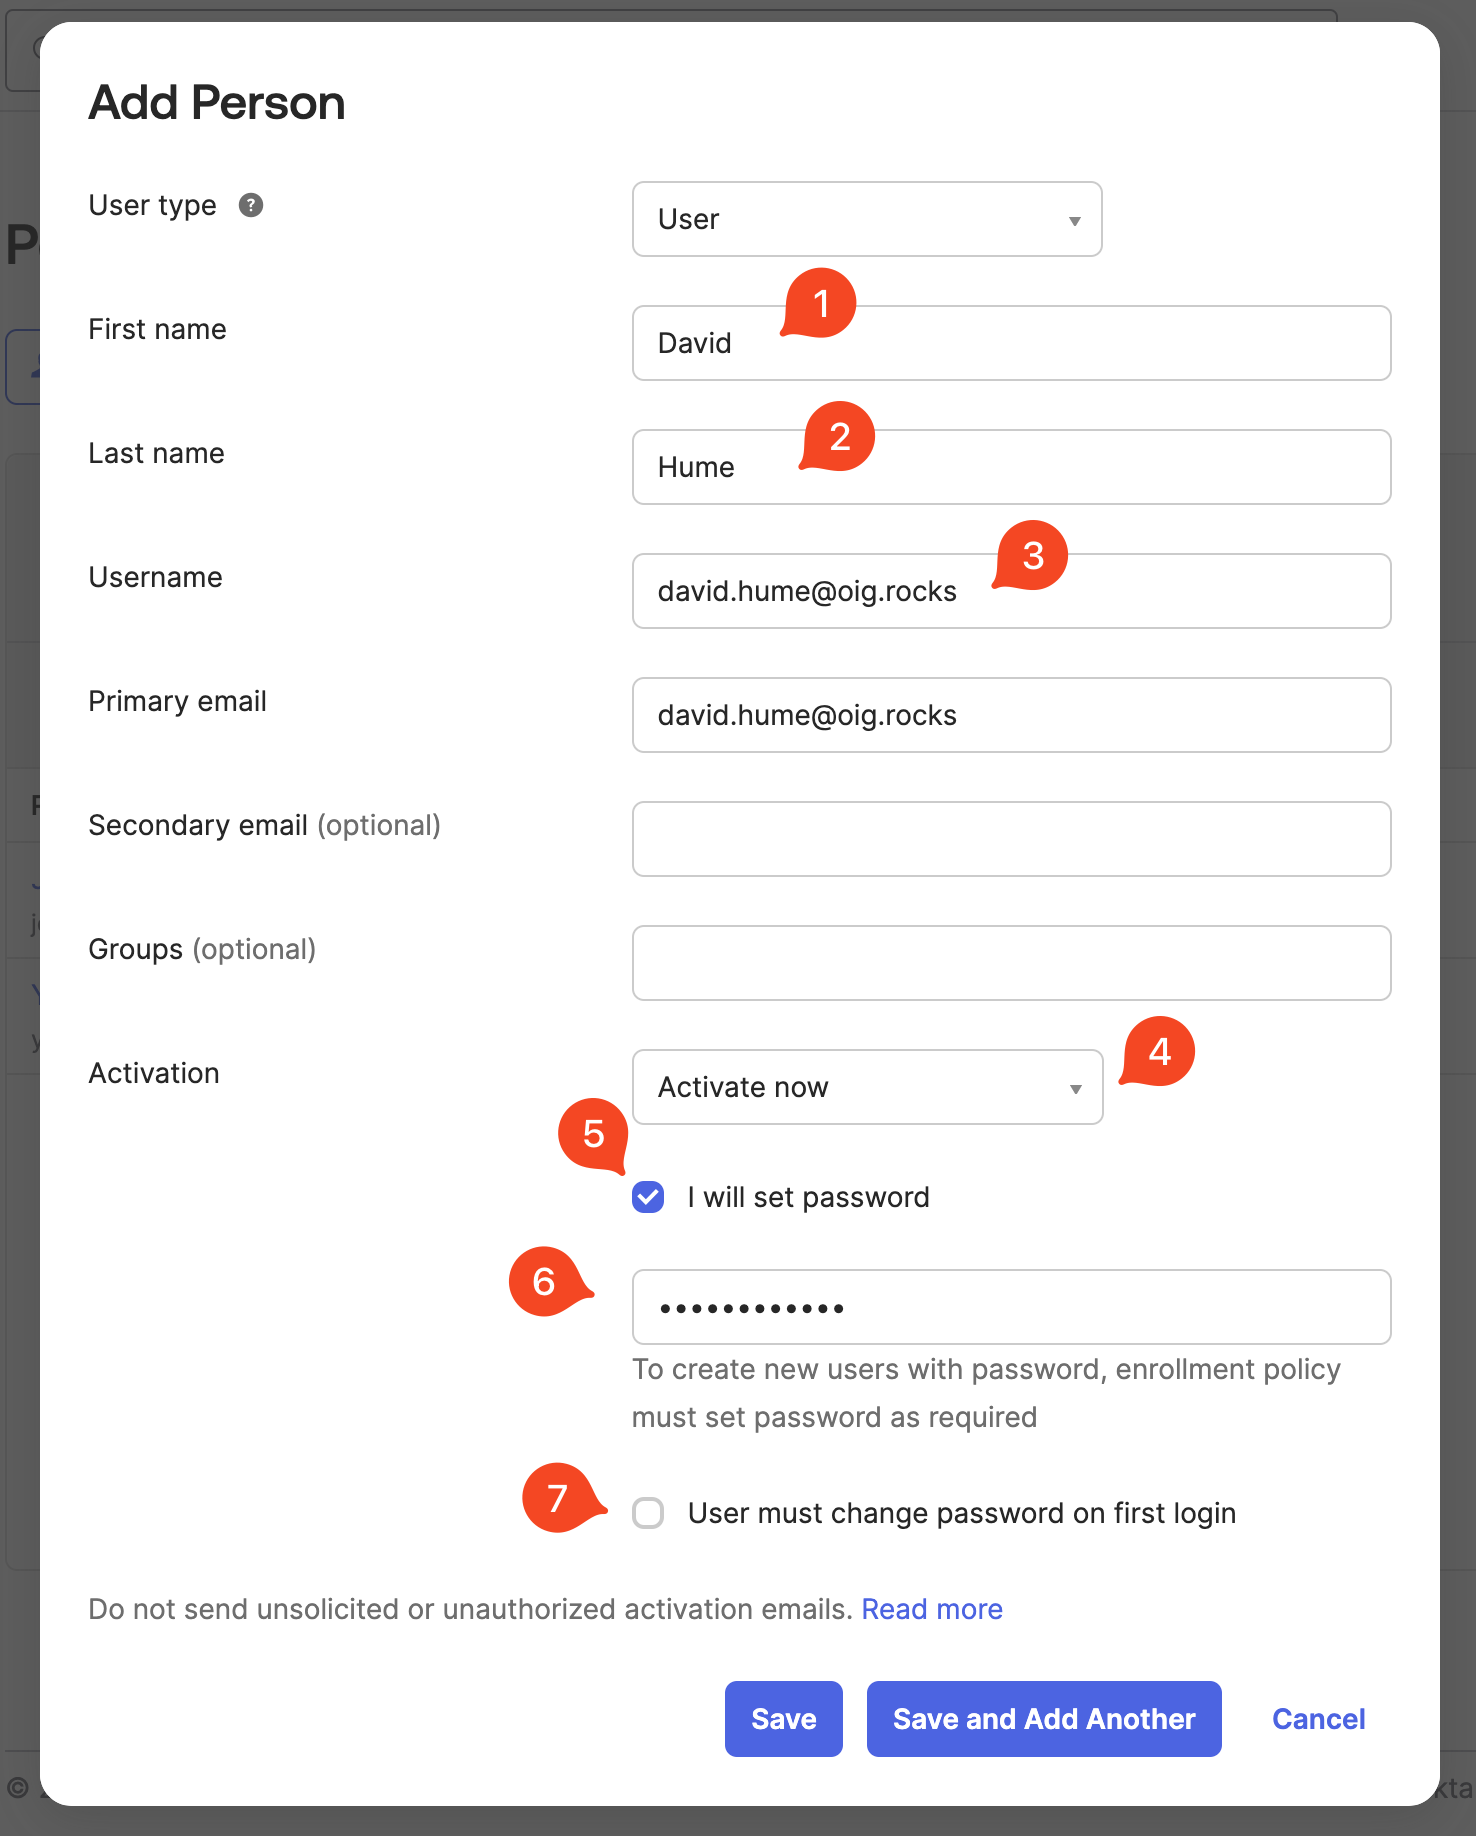
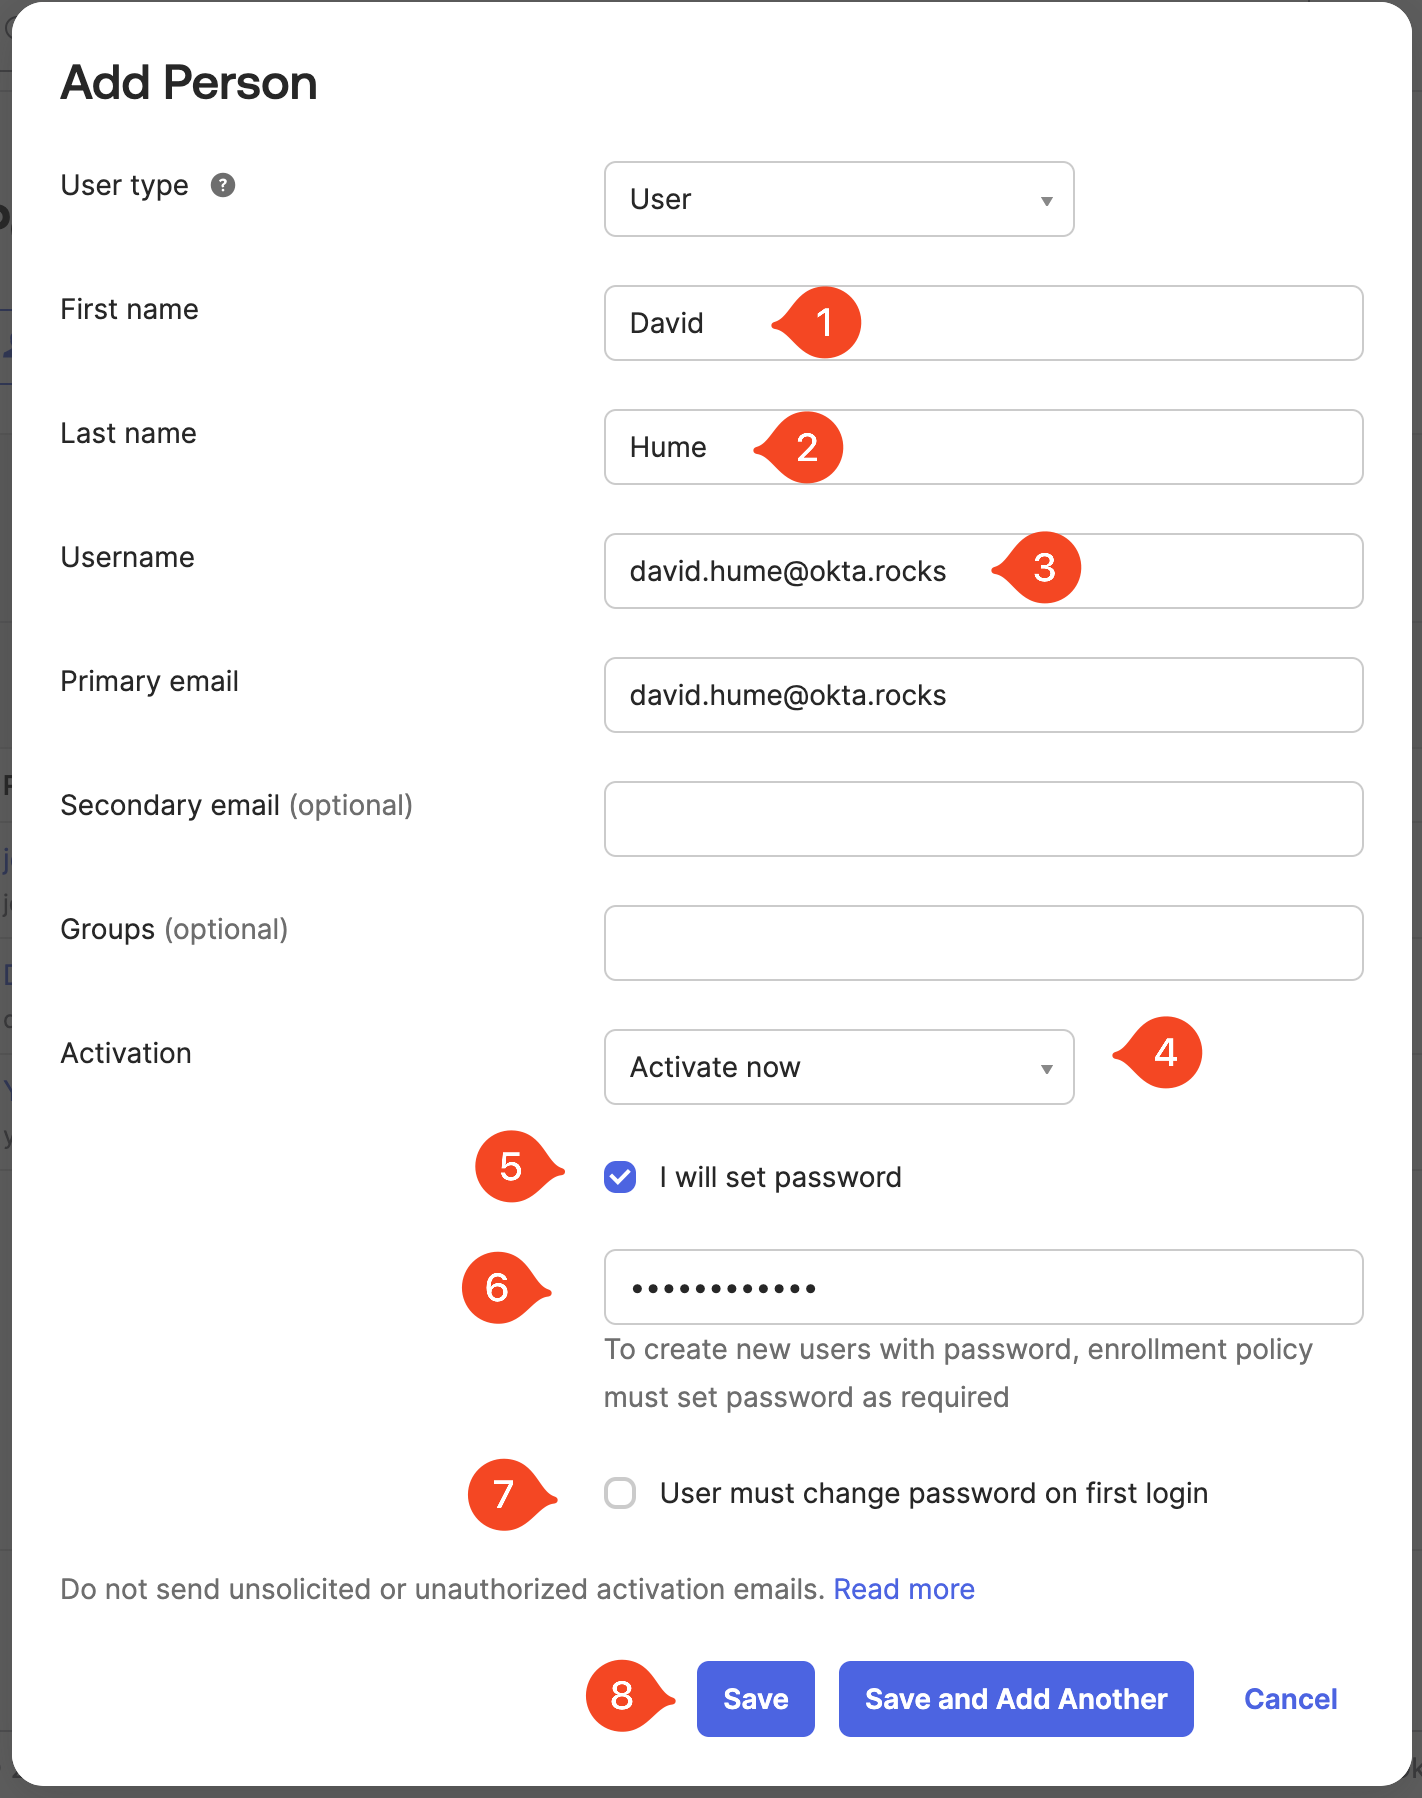
Prettifying some steps and adding counters to the actions.

diff --git a/step2.md b/step2.md
@@ -4,9 +4,13 @@
 ## Assigning the Access Request application to all users
 We will now explore our Okta Access Request capabilities.
 
-Navigate to your Okta **admin dashboard → Applications → Applications** and look for the app named Request Access. Click on the app and go to the **assignments** tab. Click on the blue **Assign** button, select *Assign to Groups* , and find and assign the app to the *Everyone* group. This is a built in group that contains all users in your Okta tenant. 
+Navigate to your Okta **admin dashboard → Applications → Applications** and look for the app named Request Access. 
 
 ![](https://raw.githubusercontent.com/Youssefmadani/OIG-Lab/main/Images/step2-1.png)
+
+Click on the app and go to the **assignments** tab. Click on the blue **Assign** button, select *Assign to Groups*. Find and assign the app to the *Everyone* group. This is a built in group that contains all users in your Okta tenant. 
+
+![](https://raw.githubusercontent.com/Youssefmadani/OIG-Lab/main/Images/step2-1a.png)
 
 Now all users should be able to access the *Request Access* portal from which they can request access to resources (once we’ve created some access request flows).
 
@@ -46,4 +50,6 @@ From the **Access Requests UI** navigate to **Settings -> Resources**. The first
 
 ![](https://raw.githubusercontent.com/Youssefmadani/OIG-Lab/main/Images/step2-4.png)
 
-Make sure all of the teams are toggled on for all Applications. Do the same for Groups. Your list of applications and groups might look a bit different from the screenshot, but that is ok. You may also not yet see Okta Workflows in the Resources list. But we will adress that later in the lab.
+Make sure all of the teams are toggled on for all Applications. **Do the same for Groups**. Your list of applications and groups might look a bit different from the screenshot, but that is ok. You may also not yet see Okta Workflows in the Resources list. But we will adress that later in the lab.
+
+![](https://raw.githubusercontent.com/Youssefmadani/OIG-Lab/main/Images/step2-5.png)

diff --git a/step1.md b/step1.md
@@ -21,9 +21,9 @@ From the **Okta Admin Dashboard**, navigate to **Directory --> People**.
  ![](https://raw.githubusercontent.com/Youssefmadani/OIG-Lab/main/Images/step1-2.png)
 
 If you only see yourself, (that means that the automation portion of this lab hasn't been finished yet. In that case, go ahead and) **click** on the **Add person** button and create the following users. Make sure that you **enable** **Activate now**, check **I will set Password**, and uncheck **User must change password on first login**  :
-1. First name, Last name, Username, primary email, pw = password
-2. John, Wick, john.wick@okta.rocks, john.wick@okta.rocks, pw = OktaRocks123!
-3. David, Hume, david.hume@okta.rocks, david.hume@okta.rocks, pw = OktaRocks123!
+- **First name, Last name, Username, primary email, pw = password**
+1. John, Wick, john.wick@okta.rocks, john.wick@okta.rocks, pw = OktaRocks123!
+2. David, Hume, david.hume@okta.rocks, david.hume@okta.rocks, pw = OktaRocks123!
 
 ![](https://raw.githubusercontent.com/Youssefmadani/OIG-Lab/main/Images/step1-3.png)
 
@@ -40,8 +40,6 @@ David will be managed by John Wick. So in the Manager field, we will type in Joh
 ![](https://raw.githubusercontent.com/Youssefmadani/OIG-Lab/main/Images/step1-6.png)
 
 Normally this sort of information will be sourced from an HR system or a separate directory (AD/LDAP). But for the sake of the demo we will just do this in Okta.
-
-![](https://raw.githubusercontent.com/Youssefmadani/OIG-Lab/main/Images/step1-5.png)
 
 ### Creating the right Okta Groups
 

diff --git a/step3.md b/step3.md
@@ -36,7 +36,7 @@ So let’s sign in as an end-user and log into the Okta end-user dashboard. (**t
 Navigate to your Okta sign in dashboard and sign in with the user credentials below:
 
 ```
-username: david.hume@oig.rocks
+username: david.hume@okta.rocks
 password: OktaRocks123!
 ```
 
